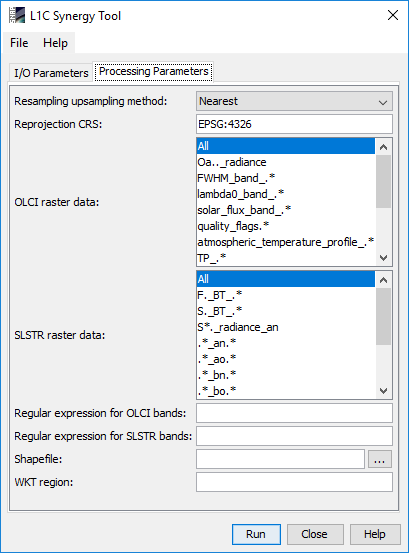
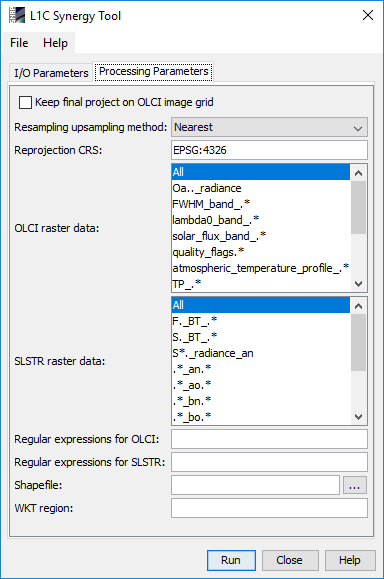
Added parameter which determines if reprojection on a custom grid will be made. Help updated accordingly.

diff --git a/s3tbx-l1csyn-op/src/main/javahelp/org/esa/s3tbx/s3tbx/l1csyn/op/docs/tool/L1CSynToolDescription.html b/s3tbx-l1csyn-op/src/main/javahelp/org/esa/s3tbx/s3tbx/l1csyn/op/docs/tool/L1CSynToolDescription.html
@@ -44,12 +44,6 @@
 Select an OLCI product on which the SLSTR product will be collocated.
 <h5>SLSTR Product</h5>
 Select a SLSTR product which will be collocated with the OLCI product.<br>
-<b>Opening SLSTR data in SNAP</b><br>
-<p align="center"><img src="../images/SlstrReaderSelection.png"></p>
-When opening the SLSTR product in SNAP before choosing it in the I/O Parameters form, you should ensured to select the
-generic Sentinel-3 reader for the SLSTR product. If you are only interested in the 500m or 1km bands then you can select
-the
-respective reader types.
 
 <h5>Target Product</h5>
 The target product is currently always provided on the WGS84 CRS.<br>
@@ -64,11 +58,16 @@ target product is not saved, it is opened in the Sentinel Toolbox automatically.
 
 <h3>Processing Parameters</h3>
 <p align="center"><img src="../images/ProcessingParameters.png"></p>
+<h5>Keep final project on OLCI image grid</h5>
+If this parameter is set to "true" then no further reprojection will be performed and L1C product will be projected onto OLCI image grid.
+In this case value from Reprojection CRS option will not be used. 'False' is default value.
+
 <h5>Resampling upsampling method</h5>
 The method used for interpolation (upsampling to a finer resolution).
 
 <h5>Reprojection CRS</h5>
 Coordinate reference system to which L1C product will be reprojected. If set to "none", no reprojection will be made. Default value is EPSG:4326.
+If user set "Keep final project on OLCI image grid" parameter to true, this option will not be used.
 
 <h5>OLCI raster data</h5>
 Predefined regular expressions for selection of OLCI bands in L1C product. Multiple values selection is possible.
@@ -127,6 +126,7 @@ Parameter Options:
                                              (make sure to quote the option due to spaces in &lt;geometry&gt;).
                                              If not given, the entire scene is used.
   -PolciRegexp=&lt;string&gt;                      Regular expression to set up selection of OLCI bands. It has priority over OLCI raster data selection. Will not be considered if empty
+  -PstayOnOlciGrid=&lt;boolean&gt;                 If this parameter is set to true, the final product will be projected on OLCI image grid.
   -PreprojectionCRS=&lt;string&gt;                 The CRS used for the reprojection. If set to None or left empty, no reprojection will be performed.
                                              Default value is 'EPSG:4326'.
   -PshapeFile=&lt;file&gt;                         Optional file which may be used for selecting subset. This has priority over WKT GeoRegion.
@@ -145,6 +145,7 @@ Graph XML Format:
         &lt;slstrProduct&gt;${slstrProduct}&lt;/slstrProduct&gt;
       &lt;/sources&gt;
       &lt;parameters&gt;
+        &lt;stayOnOlciGrid&gt;false&lt;/stayOnOlciGrid&gt;
         &lt;upsampling&gt;string&lt;/upsampling&gt;
         &lt;reprojectionCRS&gt;string&lt;/reprojectionCRS&gt;
         &lt;bandsOlci&gt;string,string,string,...&lt;/bandsOlci&gt;

diff --git a/s3tbx-l1csyn-op/src/main/java/org/esa/s3tbx/l1csyn/op/L1cSynOp.java b/s3tbx-l1csyn-op/src/main/java/org/esa/s3tbx/l1csyn/op/L1cSynOp.java
@@ -53,6 +53,13 @@ public class L1cSynOp extends Operator {
     @TargetProduct(label = "L1C SYN Product", description = "L1C SYNERGY output product")
     private Product l1cTarget;
 
+    @Parameter(alias = "stayOnOlciGrid",
+            label = "Keep final project on OLCI image grid",
+            description = "If this parameter is set to true, the final product will be projected on OLCI image grid.",
+            defaultValue = "false"
+    )
+    private boolean stayOnOlciGrid;
+
     @Parameter(alias = "upsampling",
             label = "Resampling upsampling method",
             description = "The method used for interpolation (upsampling to a finer resolution).",
@@ -164,7 +171,7 @@ public class L1cSynOp extends Operator {
             collocatedTarget = GPF.createProduct("Collocate", getCollocateParams(), sourceProductMap);
         }
 
-        if (reprojectionCRS != null && !reprojectionCRS.toLowerCase().equals("none") && !reprojectionCRS.equals("")) {
+        if (reprojectionCRS != null && !reprojectionCRS.toLowerCase().equals("none") && !reprojectionCRS.equals("") && stayOnOlciGrid == false) {
             l1cTarget = GPF.createProduct("Reproject", getReprojectParams(), collocatedTarget);
         } else {
             l1cTarget = collocatedTarget;
@@ -197,6 +204,8 @@ public class L1cSynOp extends Operator {
         } else {
             updateBands(olciSource, l1cTarget, readRegExp(olciRegexp));
         }
+
+        l1cTarget.setDescription("SENTINEL-3 SYN Level 1C Product");
     }
 
     private String[] readRegExp(String regExp) {
